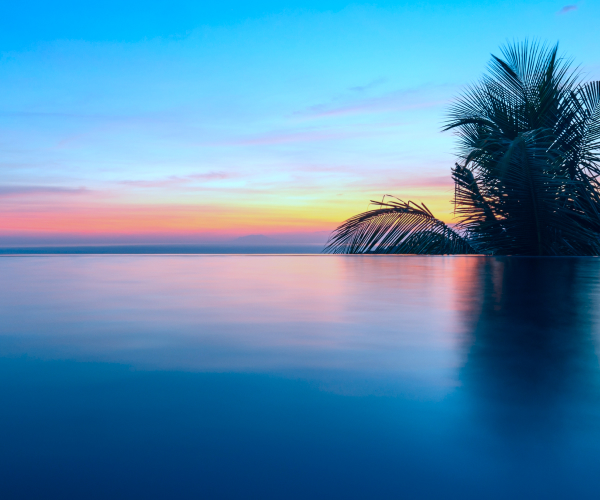
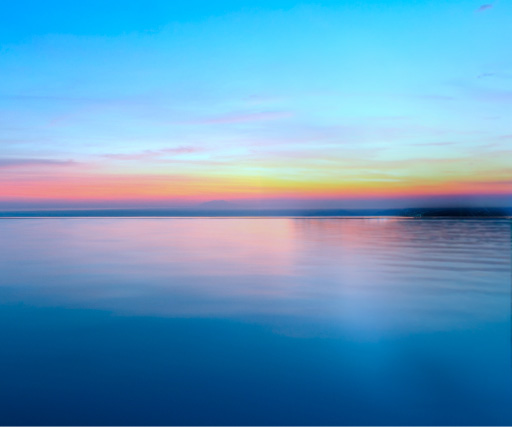
sdf

Changed region(s): [[0.5312, 0.0609, 1.0, 0.8829], [0.5625, 0.2131, 0.5938, 0.2436], [0.0, 0.4871, 0.0312, 0.5176]]

diff --git a/index.html b/index.html
@@ -216,6 +216,13 @@
                     >300x250 ALT</a
                 >
                 </div>
+                <div class="card">
+                <a
+                    target="_blank"
+                    href="PremierCard/300x250_alt1/index.html"
+                    >300x250 ALT 1</a
+                >
+                </div>
             </div>
         </div>
 